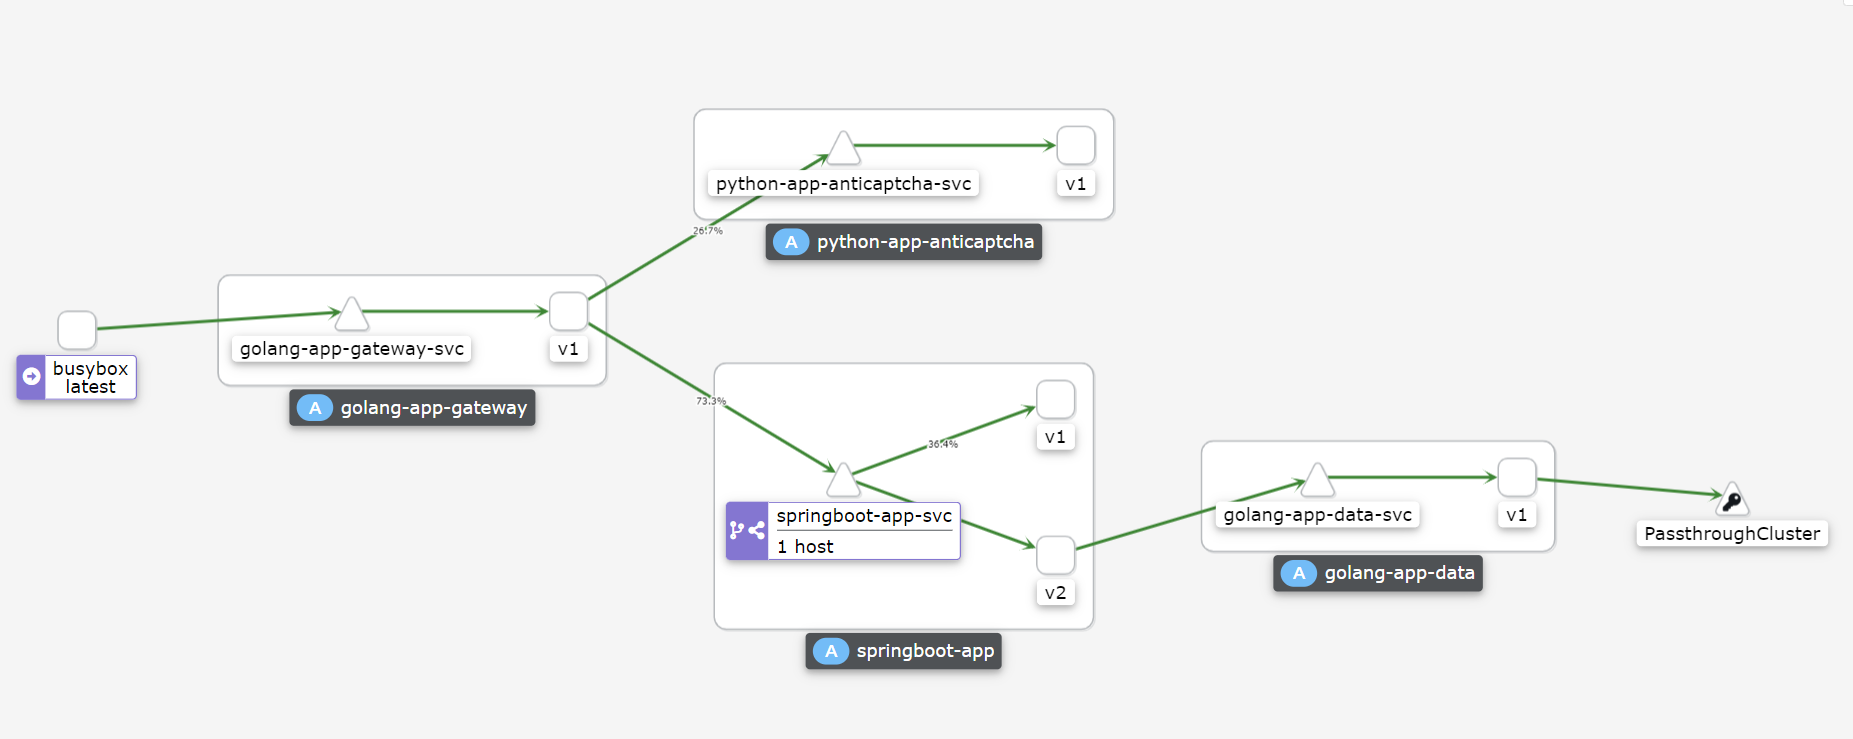
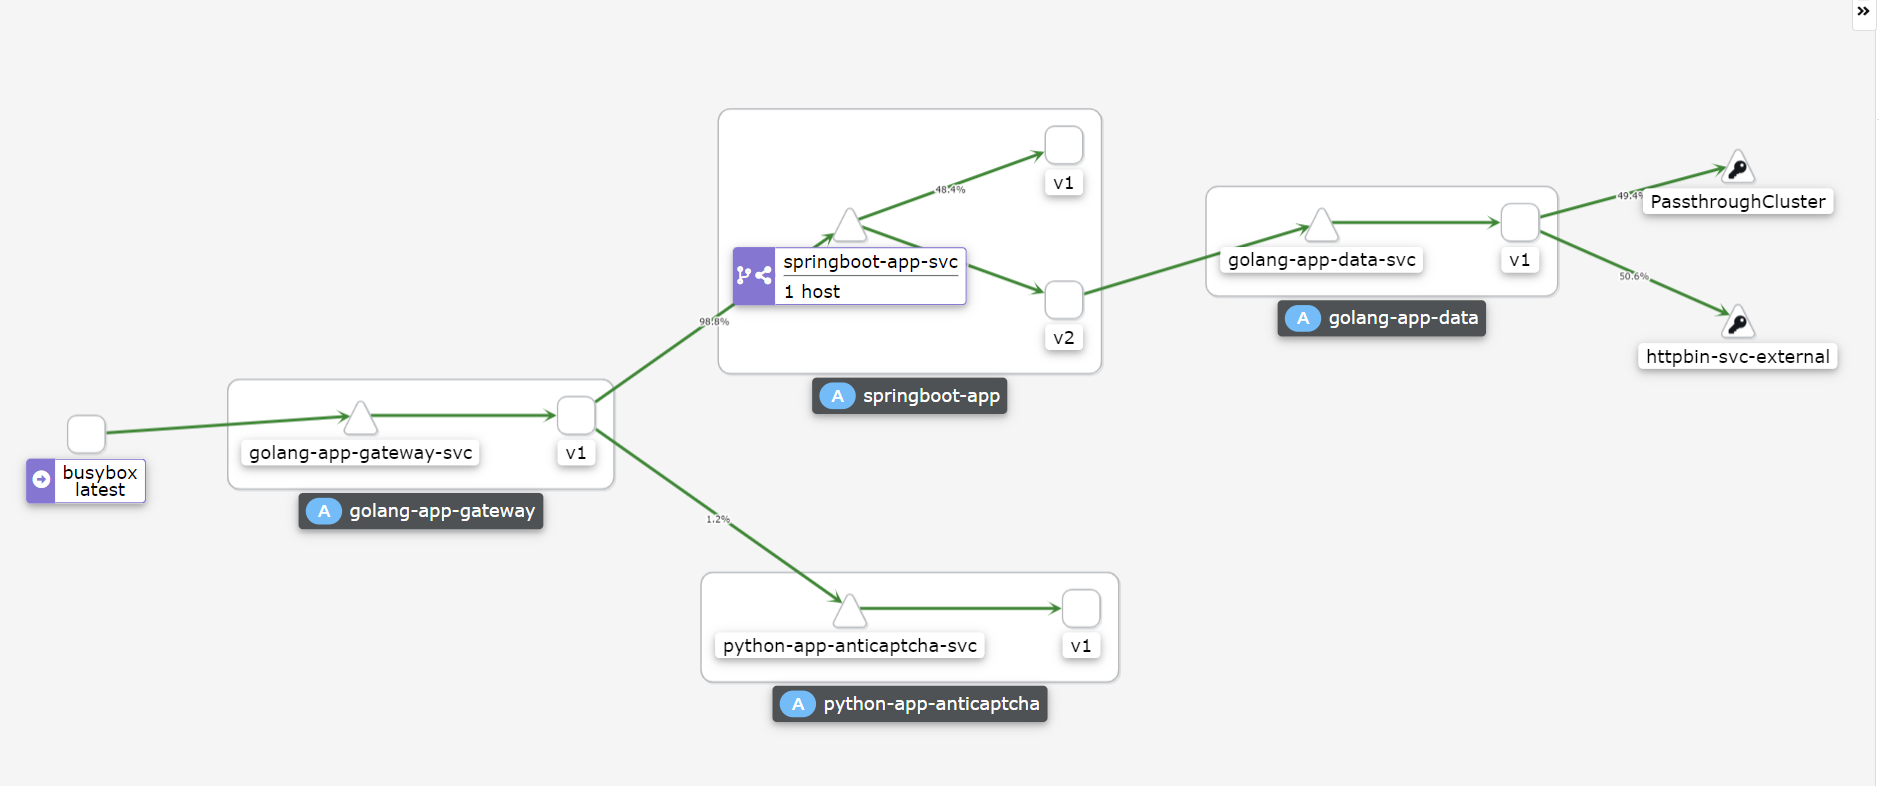
fix

diff --git a/src/golang-app-gateway/main.go b/src/golang-app-gateway/main.go
@@ -7,6 +7,7 @@ import (
 	"io/ioutil"
 	"mime/multipart"
 	"net/http"
+	"net/textproto"
 	"os"
 	"path/filepath"
 	"strings"
@@ -85,7 +86,7 @@ const anticaptcha = "http://python-app-anticaptcha-svc:8080/anticaptcha/yk122"
 
 func CaptchaServer(w http.ResponseWriter, r *http.Request) {
 
-	req, err := newfileUploadRequest(anticaptcha, nil, "file", "math.jfif")
+	req, err := newfileUploadRequest(anticaptcha, nil, "img", "math.jfif")
 	if err != nil {
 		fmt.Fprintf(w, "Error: %v\n", err)
 	}
@@ -122,7 +123,13 @@ func CaptchaServer(w http.ResponseWriter, r *http.Request) {
 		return
 	}
 
-	fmt.Fprintf(w, "Gateway get from upstream: [\n\n AntiCaptcha: %s \n]\n", "")
+	fmt.Fprintf(w, "Gateway get from upstream: [\n\n AntiCaptcha: %s \n]\n", string(b))
+}
+
+var quoteEscaper = strings.NewReplacer("\\", "\\\\", `"`, "\\\"")
+
+func escapeQuotes(s string) string {
+	return quoteEscaper.Replace(s)
 }
 
 // Creates a new file upload http request with optional extra params
@@ -135,7 +142,14 @@ func newfileUploadRequest(uri string, params map[string]string, paramName, path 
 
 	body := &bytes.Buffer{}
 	writer := multipart.NewWriter(body)
-	part, err := writer.CreateFormFile(paramName, filepath.Base(path))
+
+	h := make(textproto.MIMEHeader)
+	h.Set("Content-Disposition",
+		fmt.Sprintf(`form-data; name="%s"; filename="%s"`,
+			escapeQuotes(paramName), escapeQuotes(filepath.Base(path))))
+	h.Set("Content-Type", "image/jpeg")
+	part, err := writer.CreatePart(h)
+
 	if err != nil {
 		return nil, err
 	}
@@ -151,5 +165,7 @@ func newfileUploadRequest(uri string, params map[string]string, paramName, path 
 
 	req, err := http.NewRequest("POST", uri, body)
 	req.Header.Set("Content-Type", writer.FormDataContentType())
+	req.Header.Set("accept", "application/json")
+
 	return req, err
 }

diff --git a/src/golang-app-data/main.go b/src/golang-app-data/main.go
@@ -15,7 +15,8 @@ func main() {
 	}
 }
 
-const url string = "http://httpbin.org/get"
+const url1 string = "http://httpbin.org/get"
+const url2 string = "http://httpbin-svc-external/get"
 
 func HelloServer(w http.ResponseWriter, r *http.Request) {
 
@@ -25,7 +26,7 @@ func HelloServer(w http.ResponseWriter, r *http.Request) {
 		}
 	}
 
-	req, err := http.NewRequest("GET", url, nil)
+	req, err := http.NewRequest("GET", url1, nil)
 	if err != nil {
 		fmt.Fprintf(w, "Error: %v\n", err)
 		return
@@ -37,15 +38,29 @@ func HelloServer(w http.ResponseWriter, r *http.Request) {
 		}
 	}
 
-	{
-		addHeader(req, r, "x-request-id")
-		addHeader(req, r, "x-b3-traceid")
-		addHeader(req, r, "x-b3-spanid")
-		addHeader(req, r, "x-b3-parentspanid")
-		addHeader(req, r, "x-b3-sampled")
-		addHeader(req, r, "x-b3-flags")
-		addHeader(req, r, "x-ot-span-context")
+	addHeader(req, r, "x-request-id")
+	addHeader(req, r, "x-b3-traceid")
+	addHeader(req, r, "x-b3-spanid")
+	addHeader(req, r, "x-b3-parentspanid")
+	addHeader(req, r, "x-b3-sampled")
+	addHeader(req, r, "x-b3-flags")
+	addHeader(req, r, "x-ot-span-context")
+
+	http.DefaultClient.Do(req)
+
+	req, err = http.NewRequest("GET", url2, nil)
+	if err != nil {
+		fmt.Fprintf(w, "Error: %v\n", err)
+		return
 	}
+
+	addHeader(req, r, "x-request-id")
+	addHeader(req, r, "x-b3-traceid")
+	addHeader(req, r, "x-b3-spanid")
+	addHeader(req, r, "x-b3-parentspanid")
+	addHeader(req, r, "x-b3-sampled")
+	addHeader(req, r, "x-b3-flags")
+	addHeader(req, r, "x-ot-span-context")
 
 	http.DefaultClient.Do(req)
 
